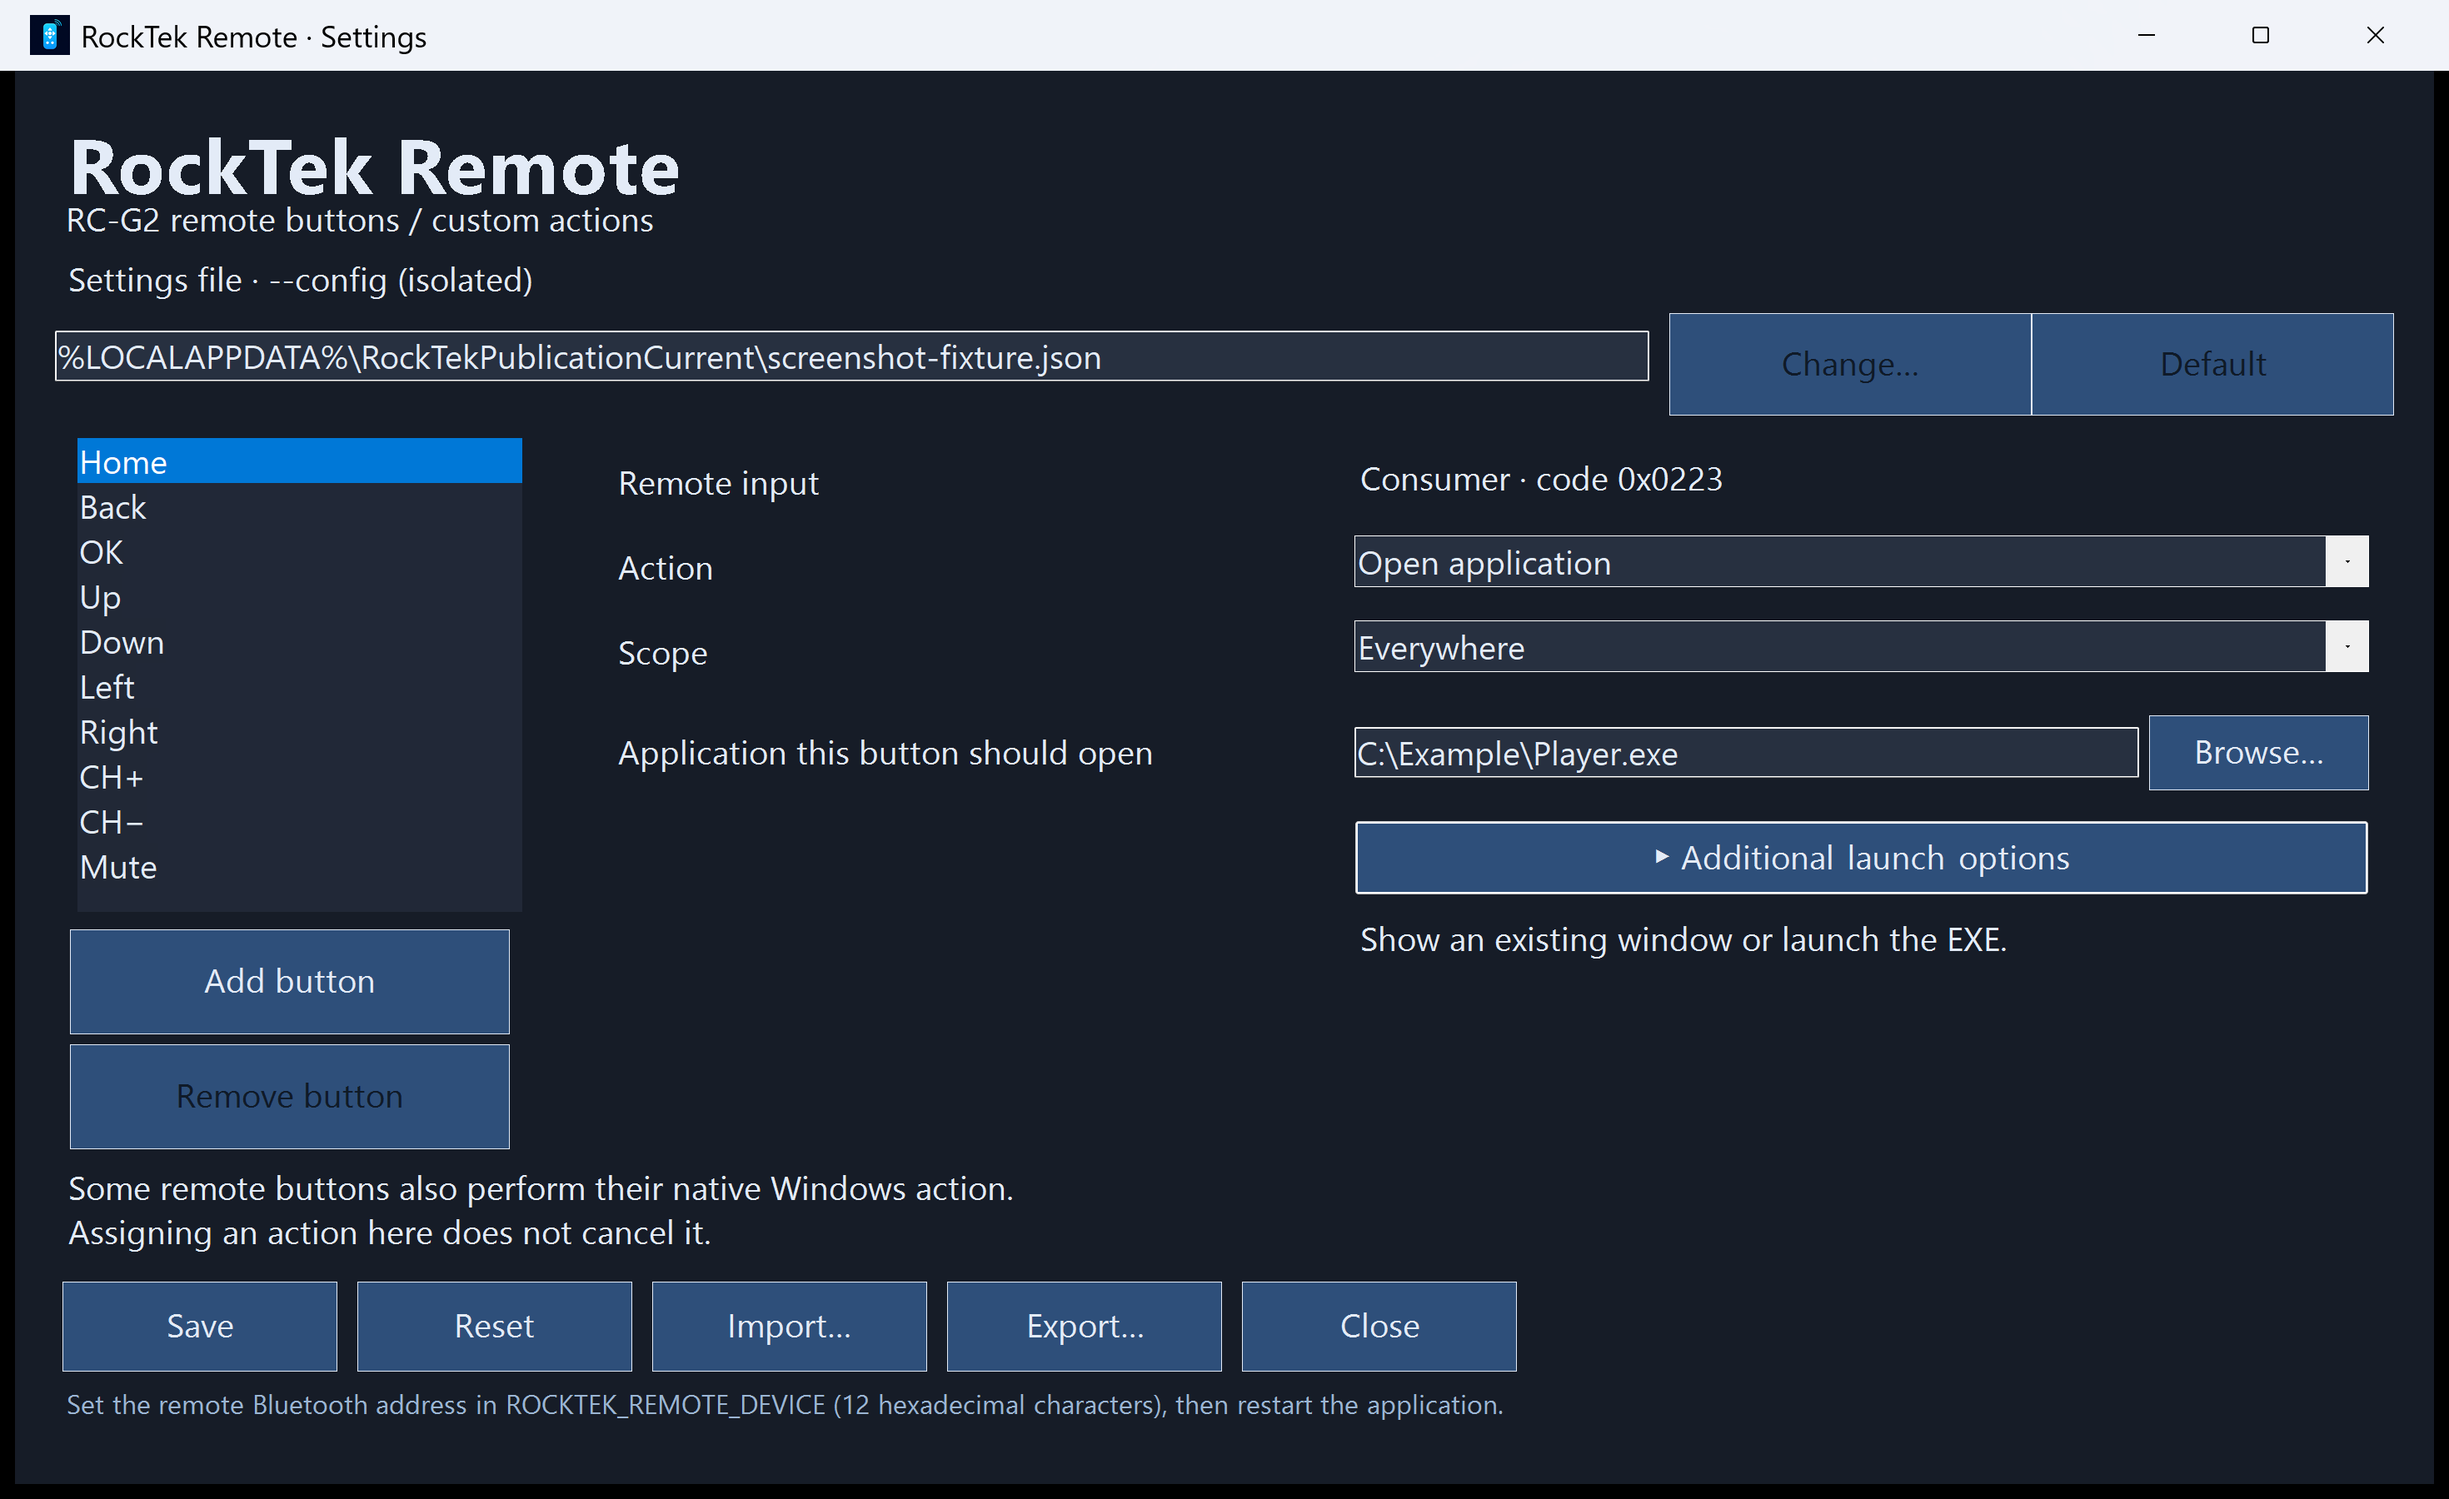
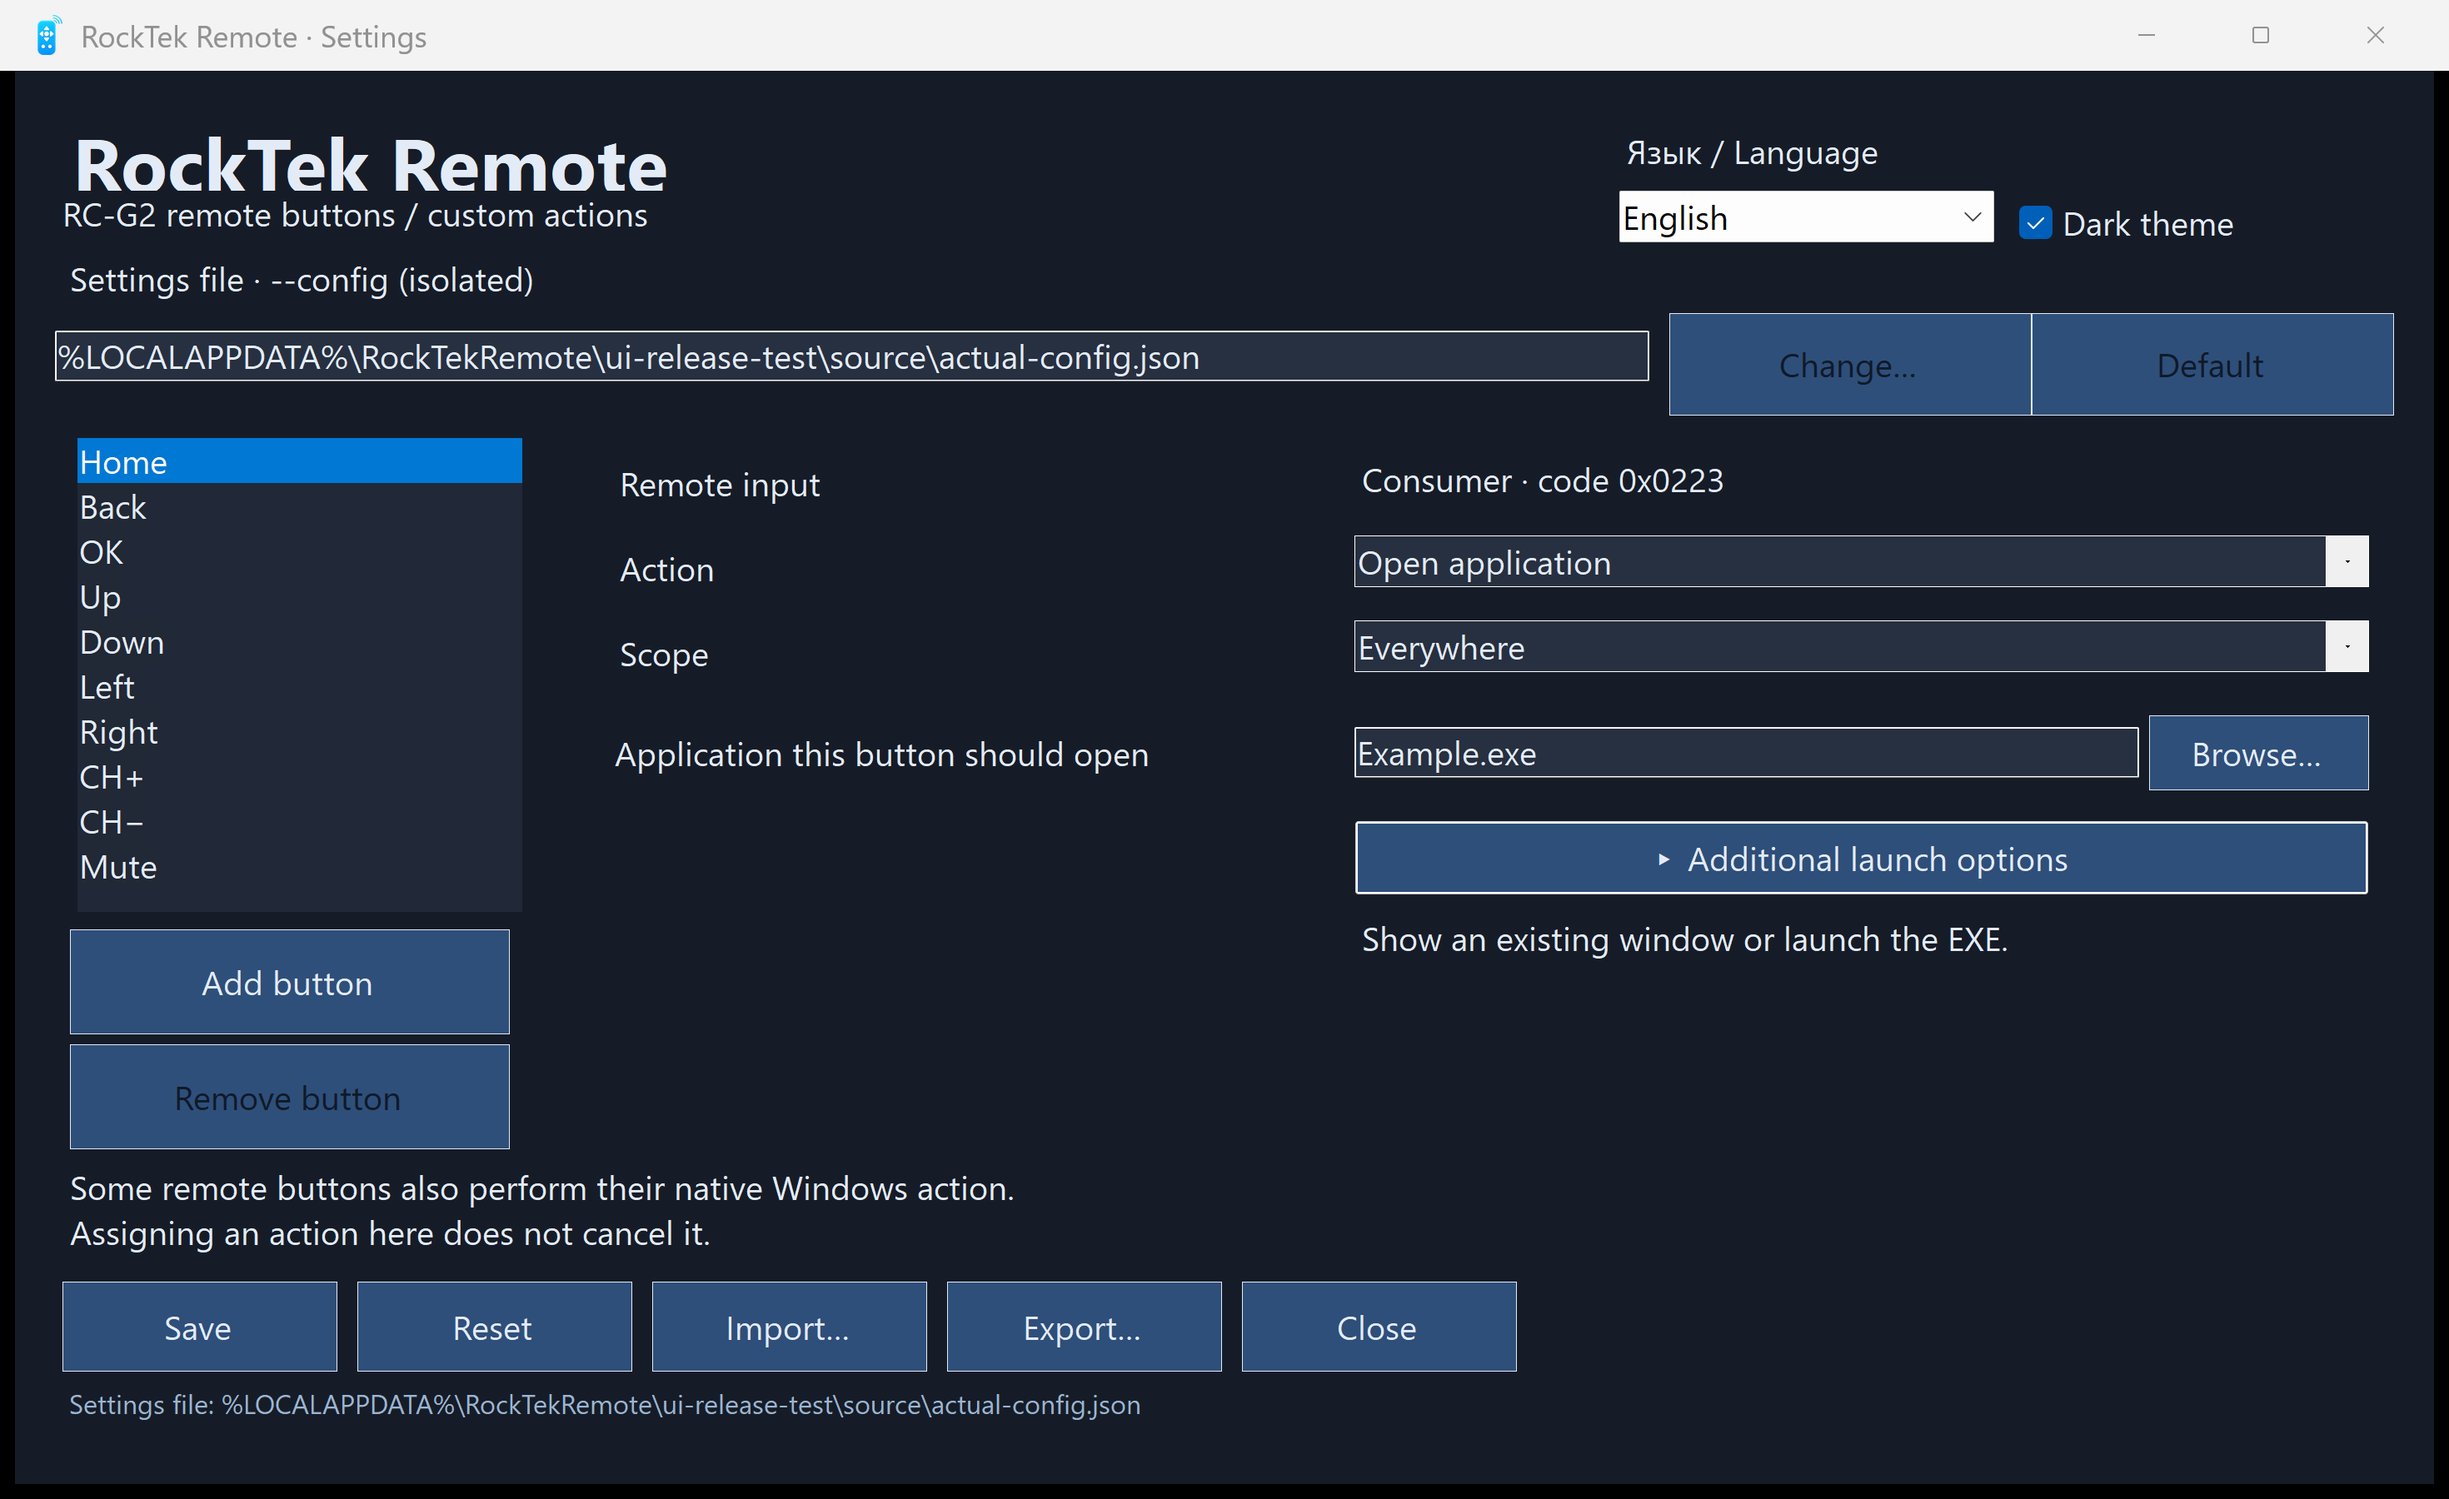
docs: show verified bilingual editor at native Windows scale

diff --git a/README.md b/README.md
@@ -44,7 +44,7 @@
 
[1 lines of base64/hex data omitted]
 
-![Текущее окно настроек на английском](docs/images/settings-en.png)
+![Текущее окно настроек на русском](docs/images/settings-ru.png)
 
 ## Сопряжение и выбор устройства
 
